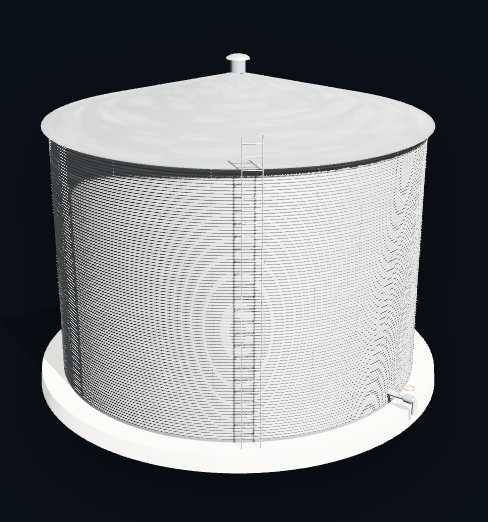
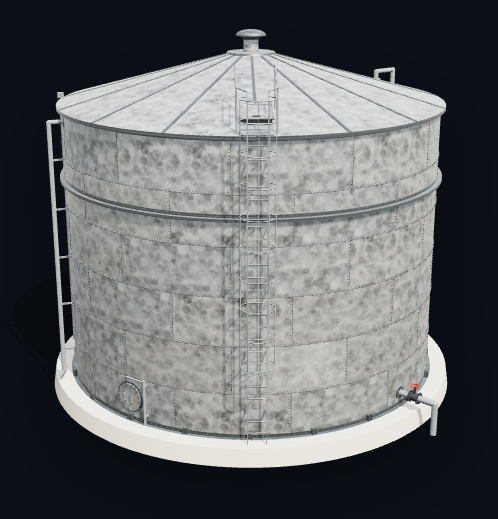
updated page

diff --git a/dpl-react/src/data/siteData.js b/dpl-react/src/data/siteData.js
@@ -9,20 +9,20 @@ export const PRODS = [
     coat: "AZ150 aluminium–zinc alloy",
     cap: "5,000 – 5,00,000 L",
     std: "IS 3396 / AWWA D103",
-    img: "/img/Zincalume.png",
+    img: "/img/Zincalume Tanks.png",
     imgAlt: "Zincalume Tanks"
   },
   {
     id: "gi",
     v: "gi",
-    name: "GI Tanks",
+    name: "Colour Coated Tanks",
     tl: "A liner does the sealing, the panel does the holding",
     body: "Galvanised steel panels paired with a PVC or EPDM liner, so the structure and the watertightness are two separate, serviceable jobs.",
     mat: "Galvanised iron panel + liner",
     coat: "Hot-dip galvanised, 275 g/m²",
     cap: "5,000 – 4,00,000 L",
     std: "IS 3396",
-    img: "/img/Product Creatives DPL website.jpg",
+    img: "/img/Color Coded Tank.png",
     imgAlt: "GI Tanks"
   },
   {
@@ -35,7 +35,7 @@ export const PRODS = [
     coat: "Fusion-bonded epoxy, 250 µm",
     cap: "10,000 – 10,00,000 L",
     std: "AWWA D103",
-    img: "/img/Fusion-Tank.png",
+    img: "/img/Fusion Bond Epoxy Tanks.png",
     imgAlt: "Fusion Bond Epoxy Tanks"
   },
   {
@@ -48,7 +48,7 @@ export const PRODS = [
     coat: "Dual-sided vitreous enamel",
     cap: "50,000 – 50,00,000 L",
     std: "EN ISO 28765",
-    img: "/img/Glass-Tank.png",
+    img: "/img/home-product-creative.png",
     imgAlt: "Glass Fused Steel Tanks"
   }
 ];
